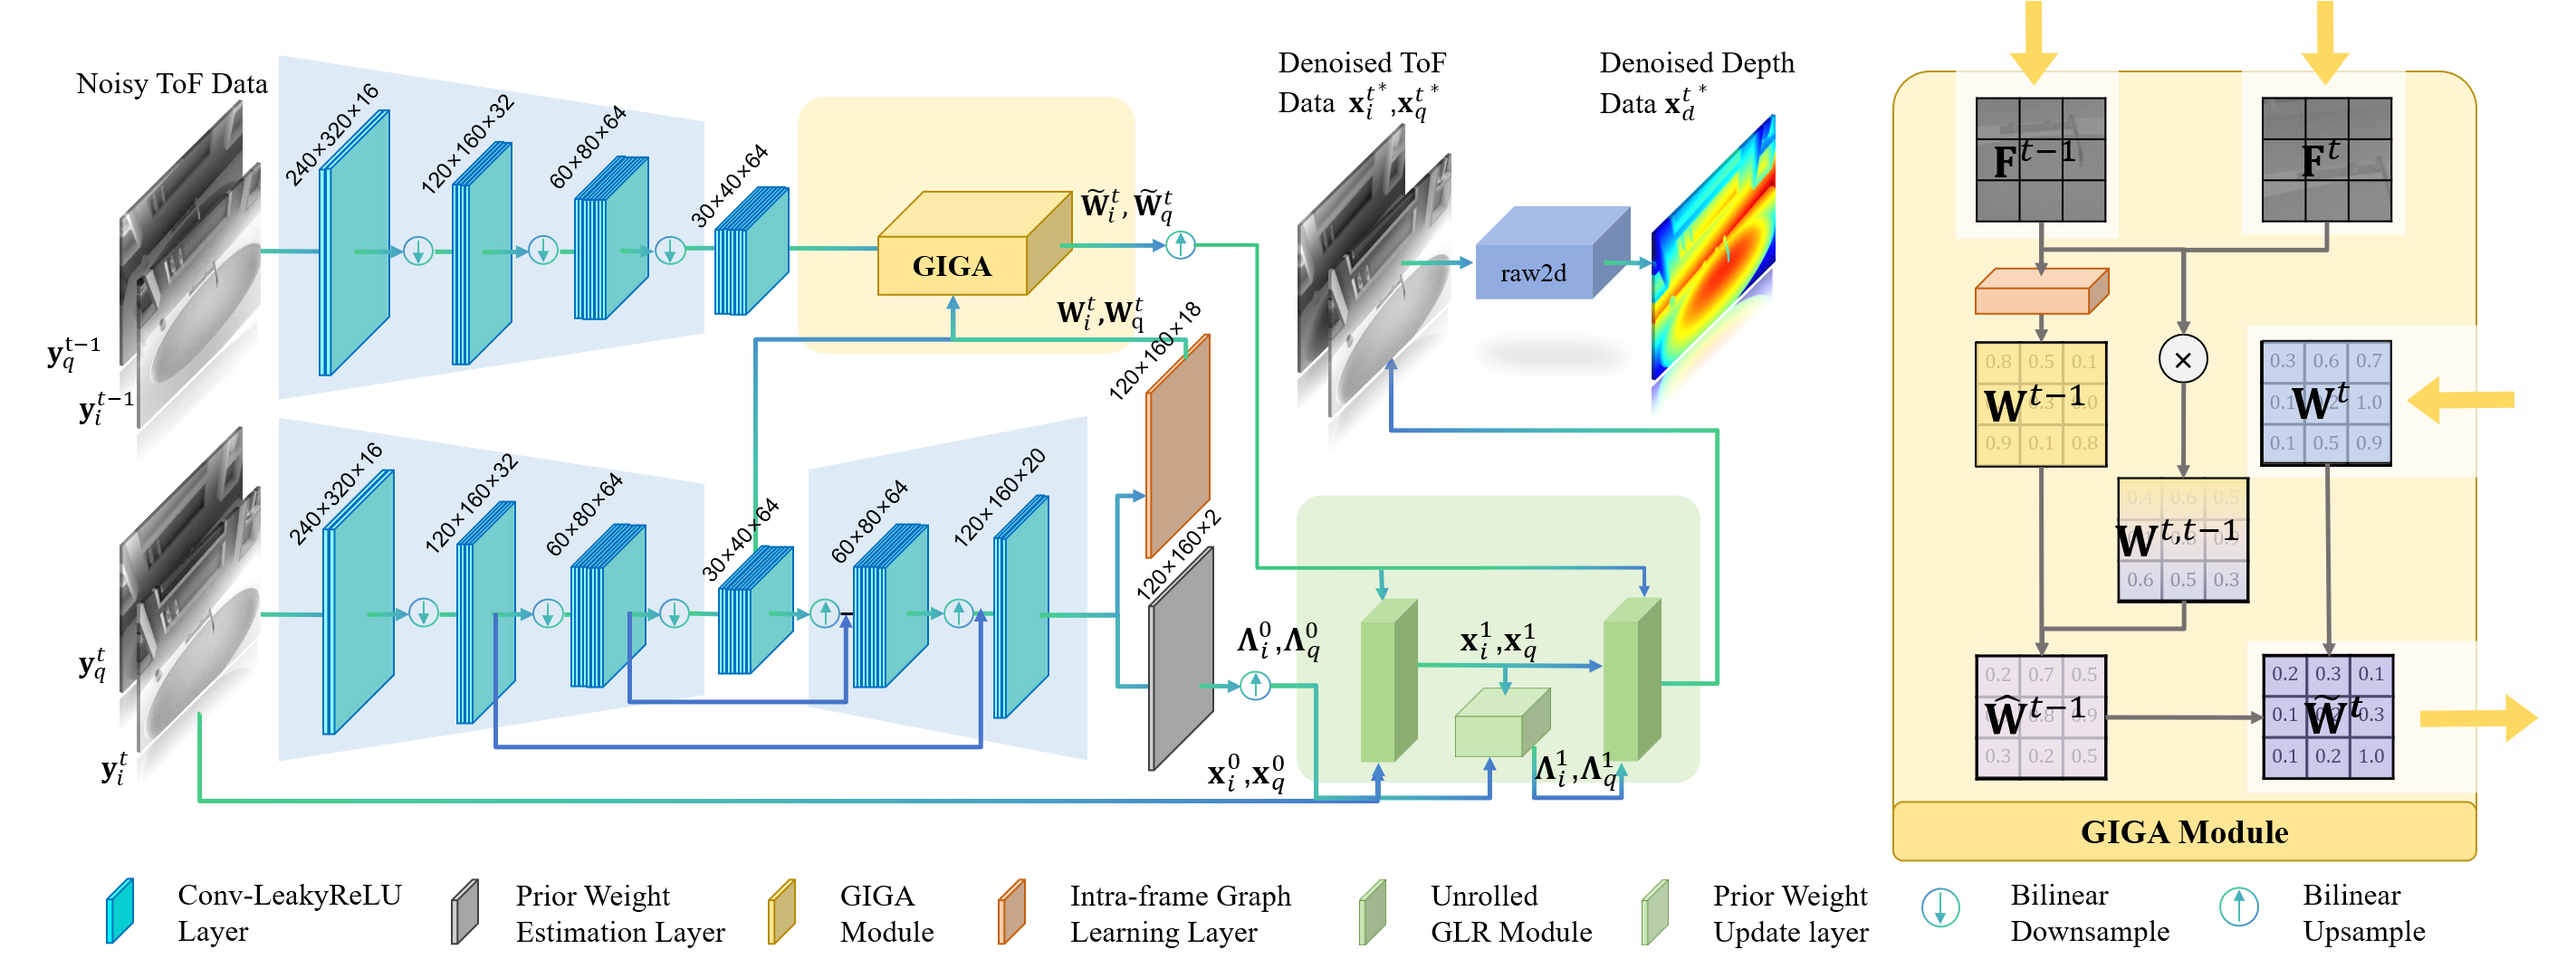
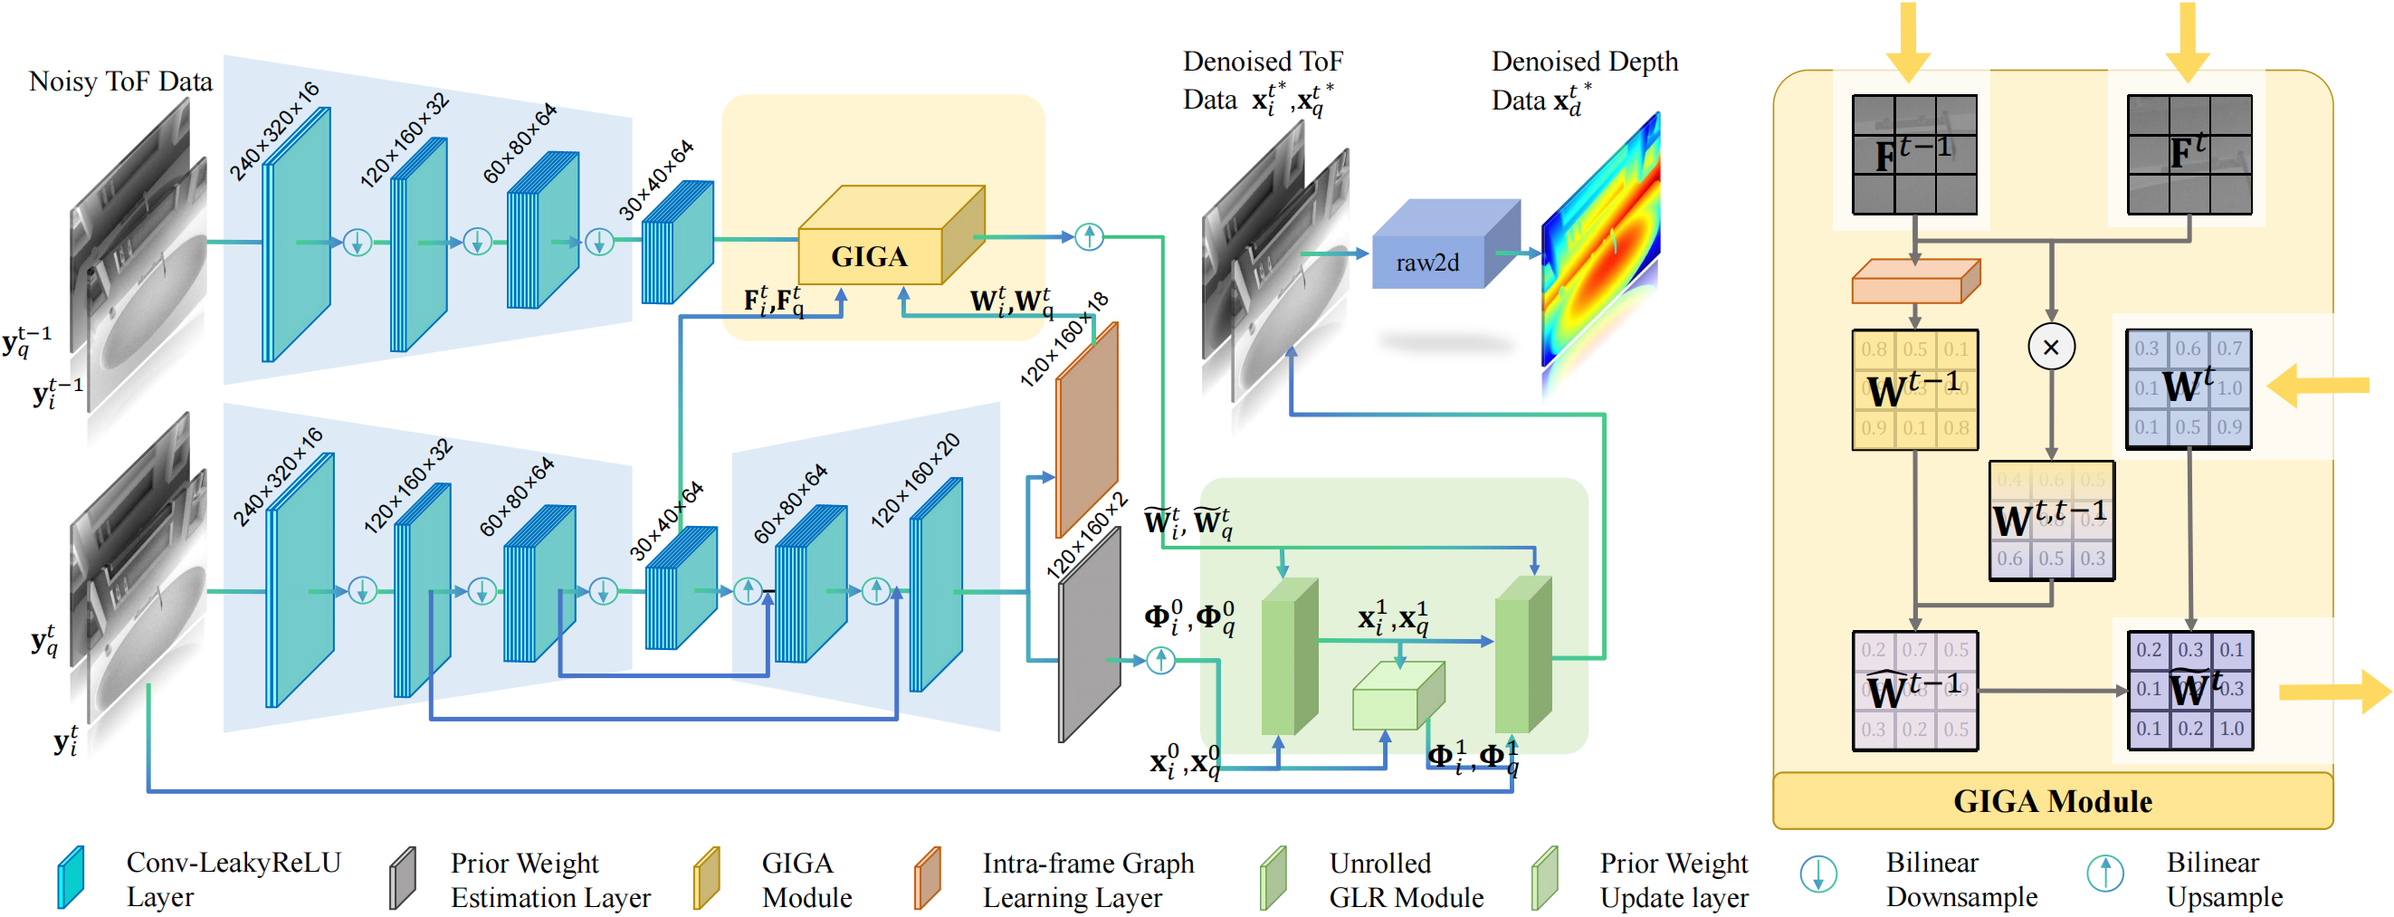
update poster

diff --git a/README.md b/README.md
@@ -135,11 +135,10 @@ bash predict_single.sh
 # References
 If you find this repository useful for your research, please cite the following work.
 ```
-@article{Wang_2025_ICCV,
+@article{wang2025consistent,
   title={Consistent Time-of-Flight Depth Denoising via Graph-Informed Geometric Attention},
-  author={Wang, Weida and He, Changyong and Zeng, Jin and Di, Qiu},
-  journal={ICCV 2025},
-  year={2025},
-  publisher={ICCV}
+  author={Wang, Weida and He, Changyong and Zeng, Jin and Qiu, Di},
+  journal={arXiv preprint arXiv:2506.23542},
+  year={2025}
 }
 ```
